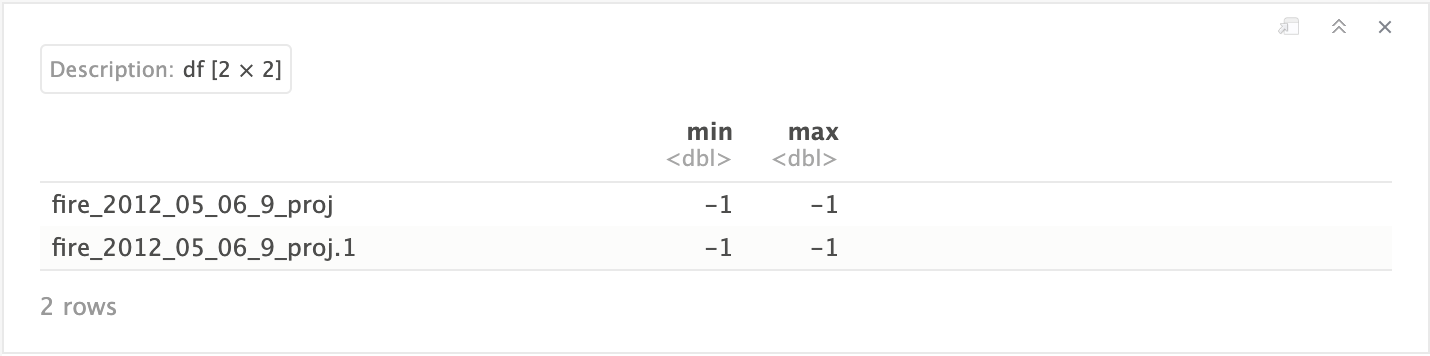
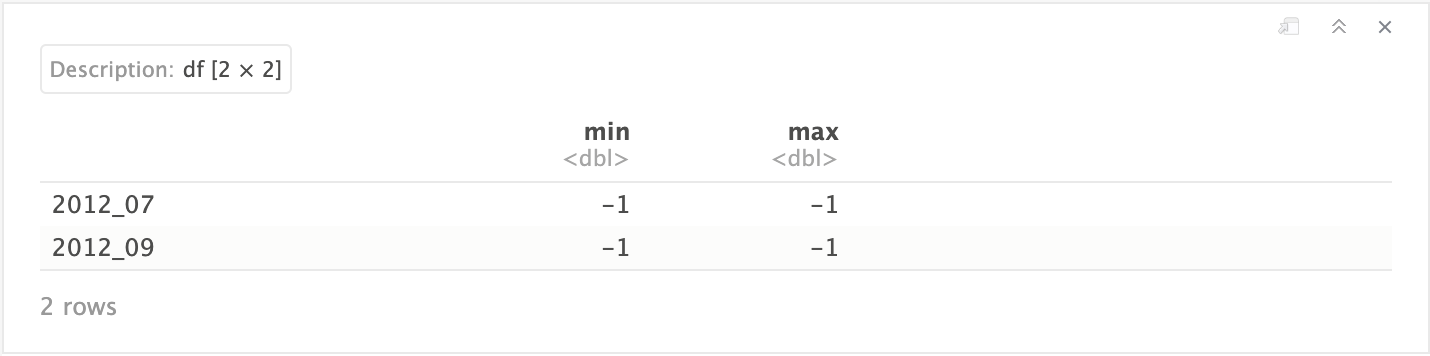
update

diff --git a/1_data_analysis_&_missing_data/README.md b/1_data_analysis_&_missing_data/README.md
@@ -49,7 +49,53 @@ burntArea.rast
     max values  :           1,           1,           1,           1,           1,           1, ... 
 ```
 
-### Verification of the values
+### Rename layers
+
+```r
+# Rename layers
+burntArea.rast <- renameLayers(burntArea.rast, 'burntarea_working_', '')
+burntArea.rast
+```
+```
+class       : SpatRaster 
+dimensions  : 5860, 7806, 240  (nrow, ncol, nlyr)
+resolution  : 500, 500  (x, y)
+extent      : -2156811, 1746189, 1625314, 4555314  (xmin, xmax, ymin, ymax)
+coord. ref. : South_America_Albers_Equal_Area_Conic 
+sources     : burntarea_working_2001_1.tif  
+              burntarea_working_2001_10.tif  
+              burntarea_working_2001_11.tif  
+              ... and 237 more source(s)
+names       : 2001_01, 2001_10, 2001_11, 2001_12, 2001_02, 2001_03, ... 
+min values  :      -2,      -2,      -2,      -2,      -2,      -2, ... 
+max values  :       1,       1,       1,       1,       1,       1, ... 
+```
+
+### Order layers
+
+```r
+# Order layers
+ordered.names <- seq(as.Date("2001-1-1"), as.Date("2020-12-1"), by = "month") %>% 
+  format(., '%Y_%m')
+burntArea.rast <- burntArea.rast[[ordered.names]]
+burntArea.rast
+```
+```
+class       : SpatRaster 
+dimensions  : 5860, 7806, 240  (nrow, ncol, nlyr)
+resolution  : 500, 500  (x, y)
+extent      : -2156811, 1746189, 1625314, 4555314  (xmin, xmax, ymin, ymax)
+coord. ref. : South_America_Albers_Equal_Area_Conic 
+sources     : burntarea_working_2001_1.tif  
+              burntarea_working_2001_2.tif  
+              burntarea_working_2001_3.tif  
+              ... and 237 more source(s)
+names       : 2001_01, 2001_02, 2001_03, 2001_04, 2001_05, 2001_06, ... 
+min values  :      -2,      -2,      -2,      -2,      -2,      -2, ... 
+max values  :       1,       1,       1,       1,       1,       1, ... 
+```
+
+## Verification of the values
 
 ```r
 # Verification of the values
@@ -84,6 +130,8 @@ names       : fire_2012_05_06_9_proj, fire_2012_05_06_9_proj
 min values  :                     -1,                     -1 
 max values  :                     -1,                     -1 
 ```
+
+As we have misssing data for all the cells of the month of July and September 2012.
 
 ## Land Cover
 

diff --git a/README.md b/README.md
@@ -30,7 +30,7 @@ We focus on addressing the significant challenge of identifying and managing mis
 
 - The _land surface temperature_ variable, which contains over one million missing data points across twenty-six months.
 
-- The response variable, _burnt area_, in which we treat the value (-2) as missing data, representing water. Additionally, it's important to note that we exclude the two months, September and November 2012, from our analysis, as we do not have any data for the response variable _burnt area_ during these months.
+- The response variable, _burnt area_, in which we treat the value (-2) as missing data, representing water. Additionally, it's important to note that we exclude the two months, July and September 2012, from our analysis, as we do not have any data for the response variable _burnt area_ during these months.
 
 For the remaining covariates, missing data is minimal, consistent across months, and typically located near the map's edges.
 
